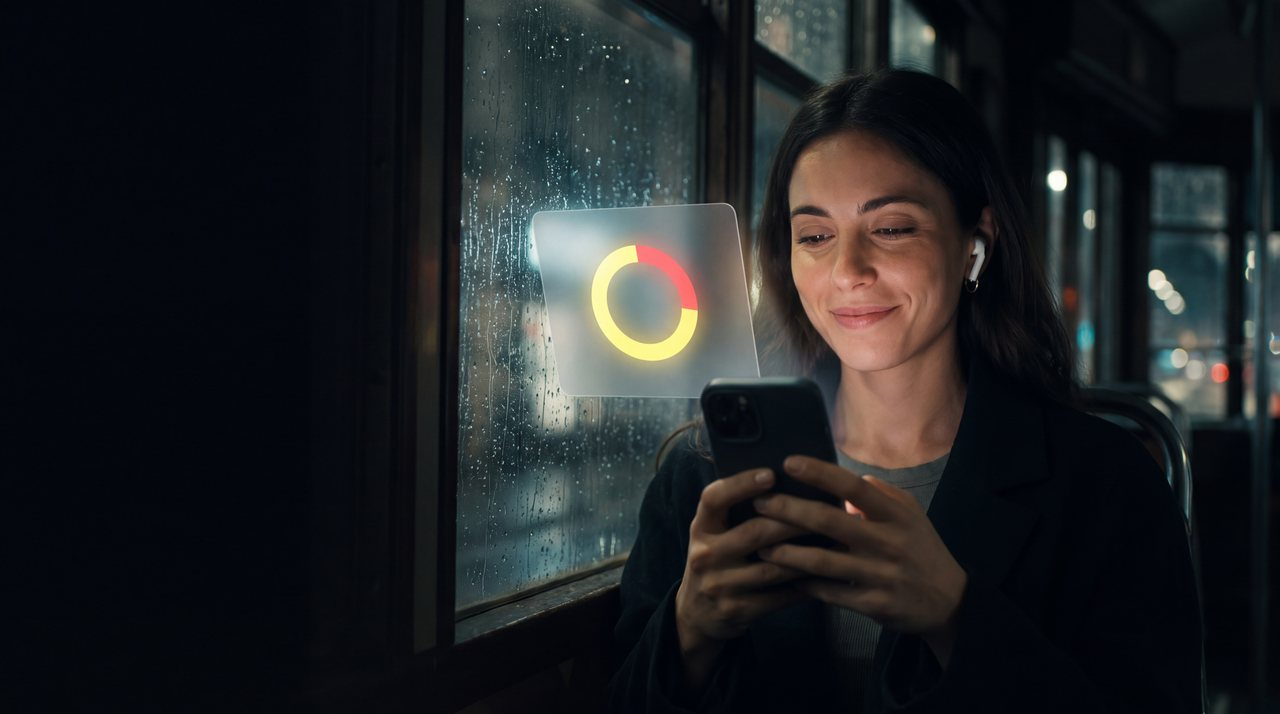
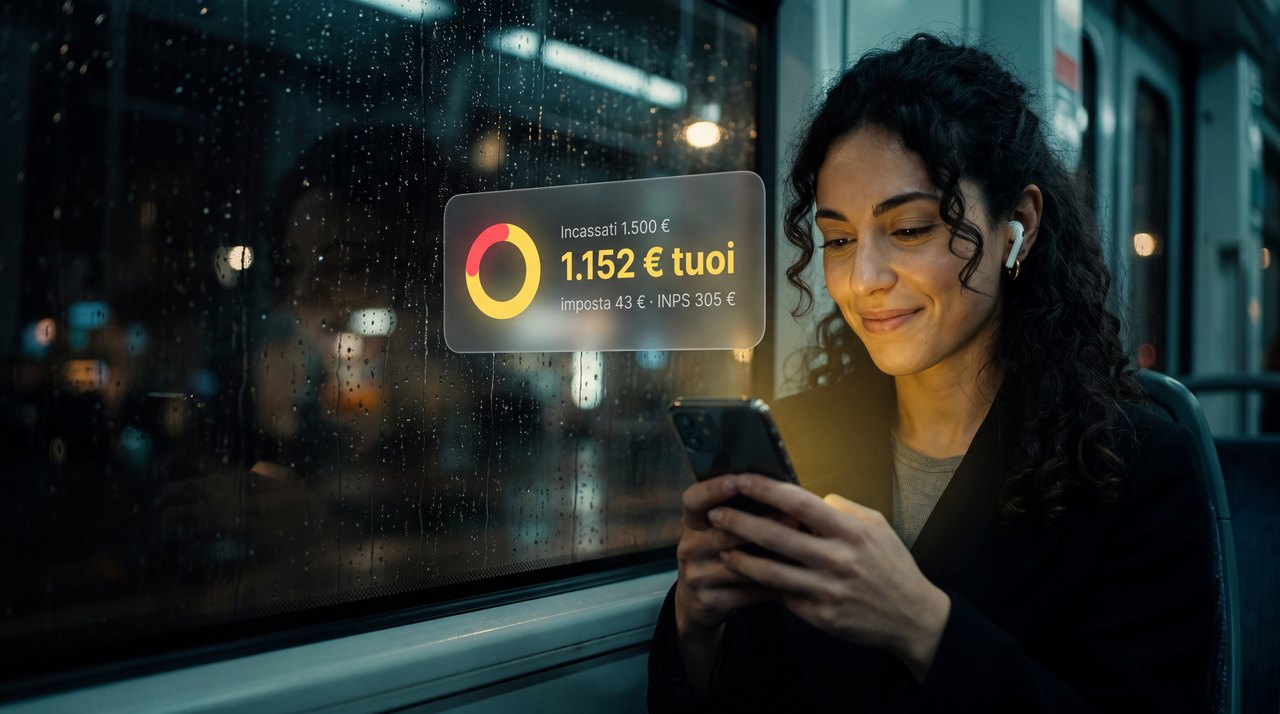
Hero: tram con card reale
Claude-Session: https://claude.ai/code/session_01MfqDZRyCTEaZJQisEBaS4Z

diff --git a/index.html b/index.html
@@ -140,7 +140,7 @@ nav .w{display:flex;align-items:center;justify-content:space-between;height:68px
 /* hero */
 .hero{position:relative;min-height:100svh;display:flex;align-items:center;overflow:hidden;background:#0b0d10}
 .hero picture img{position:absolute;inset:0;width:100%;height:100%;object-fit:cover;object-position:0% 40%}
-@media(min-width:900px){.hero picture img{width:122%;left:0;object-position:0 40%}}
+@media(min-width:900px){.hero picture img{width:112%;left:0;object-position:0 40%}}
 .hero .sh{position:absolute;inset:0;background:linear-gradient(90deg,rgba(11,13,16,.92) 0%,rgba(11,13,16,.7) 35%,rgba(11,13,16,.05) 65%),linear-gradient(0deg,#161616 0%,rgba(22,22,22,0) 25%)}
 .hero .w{position:relative;padding-top:80px;padding-bottom:60px}
 h1{font-size:clamp(46px,7vw,96px);line-height:.94;letter-spacing:-.05em;margin:0 0 22px;font-weight:900;max-width:700px}
